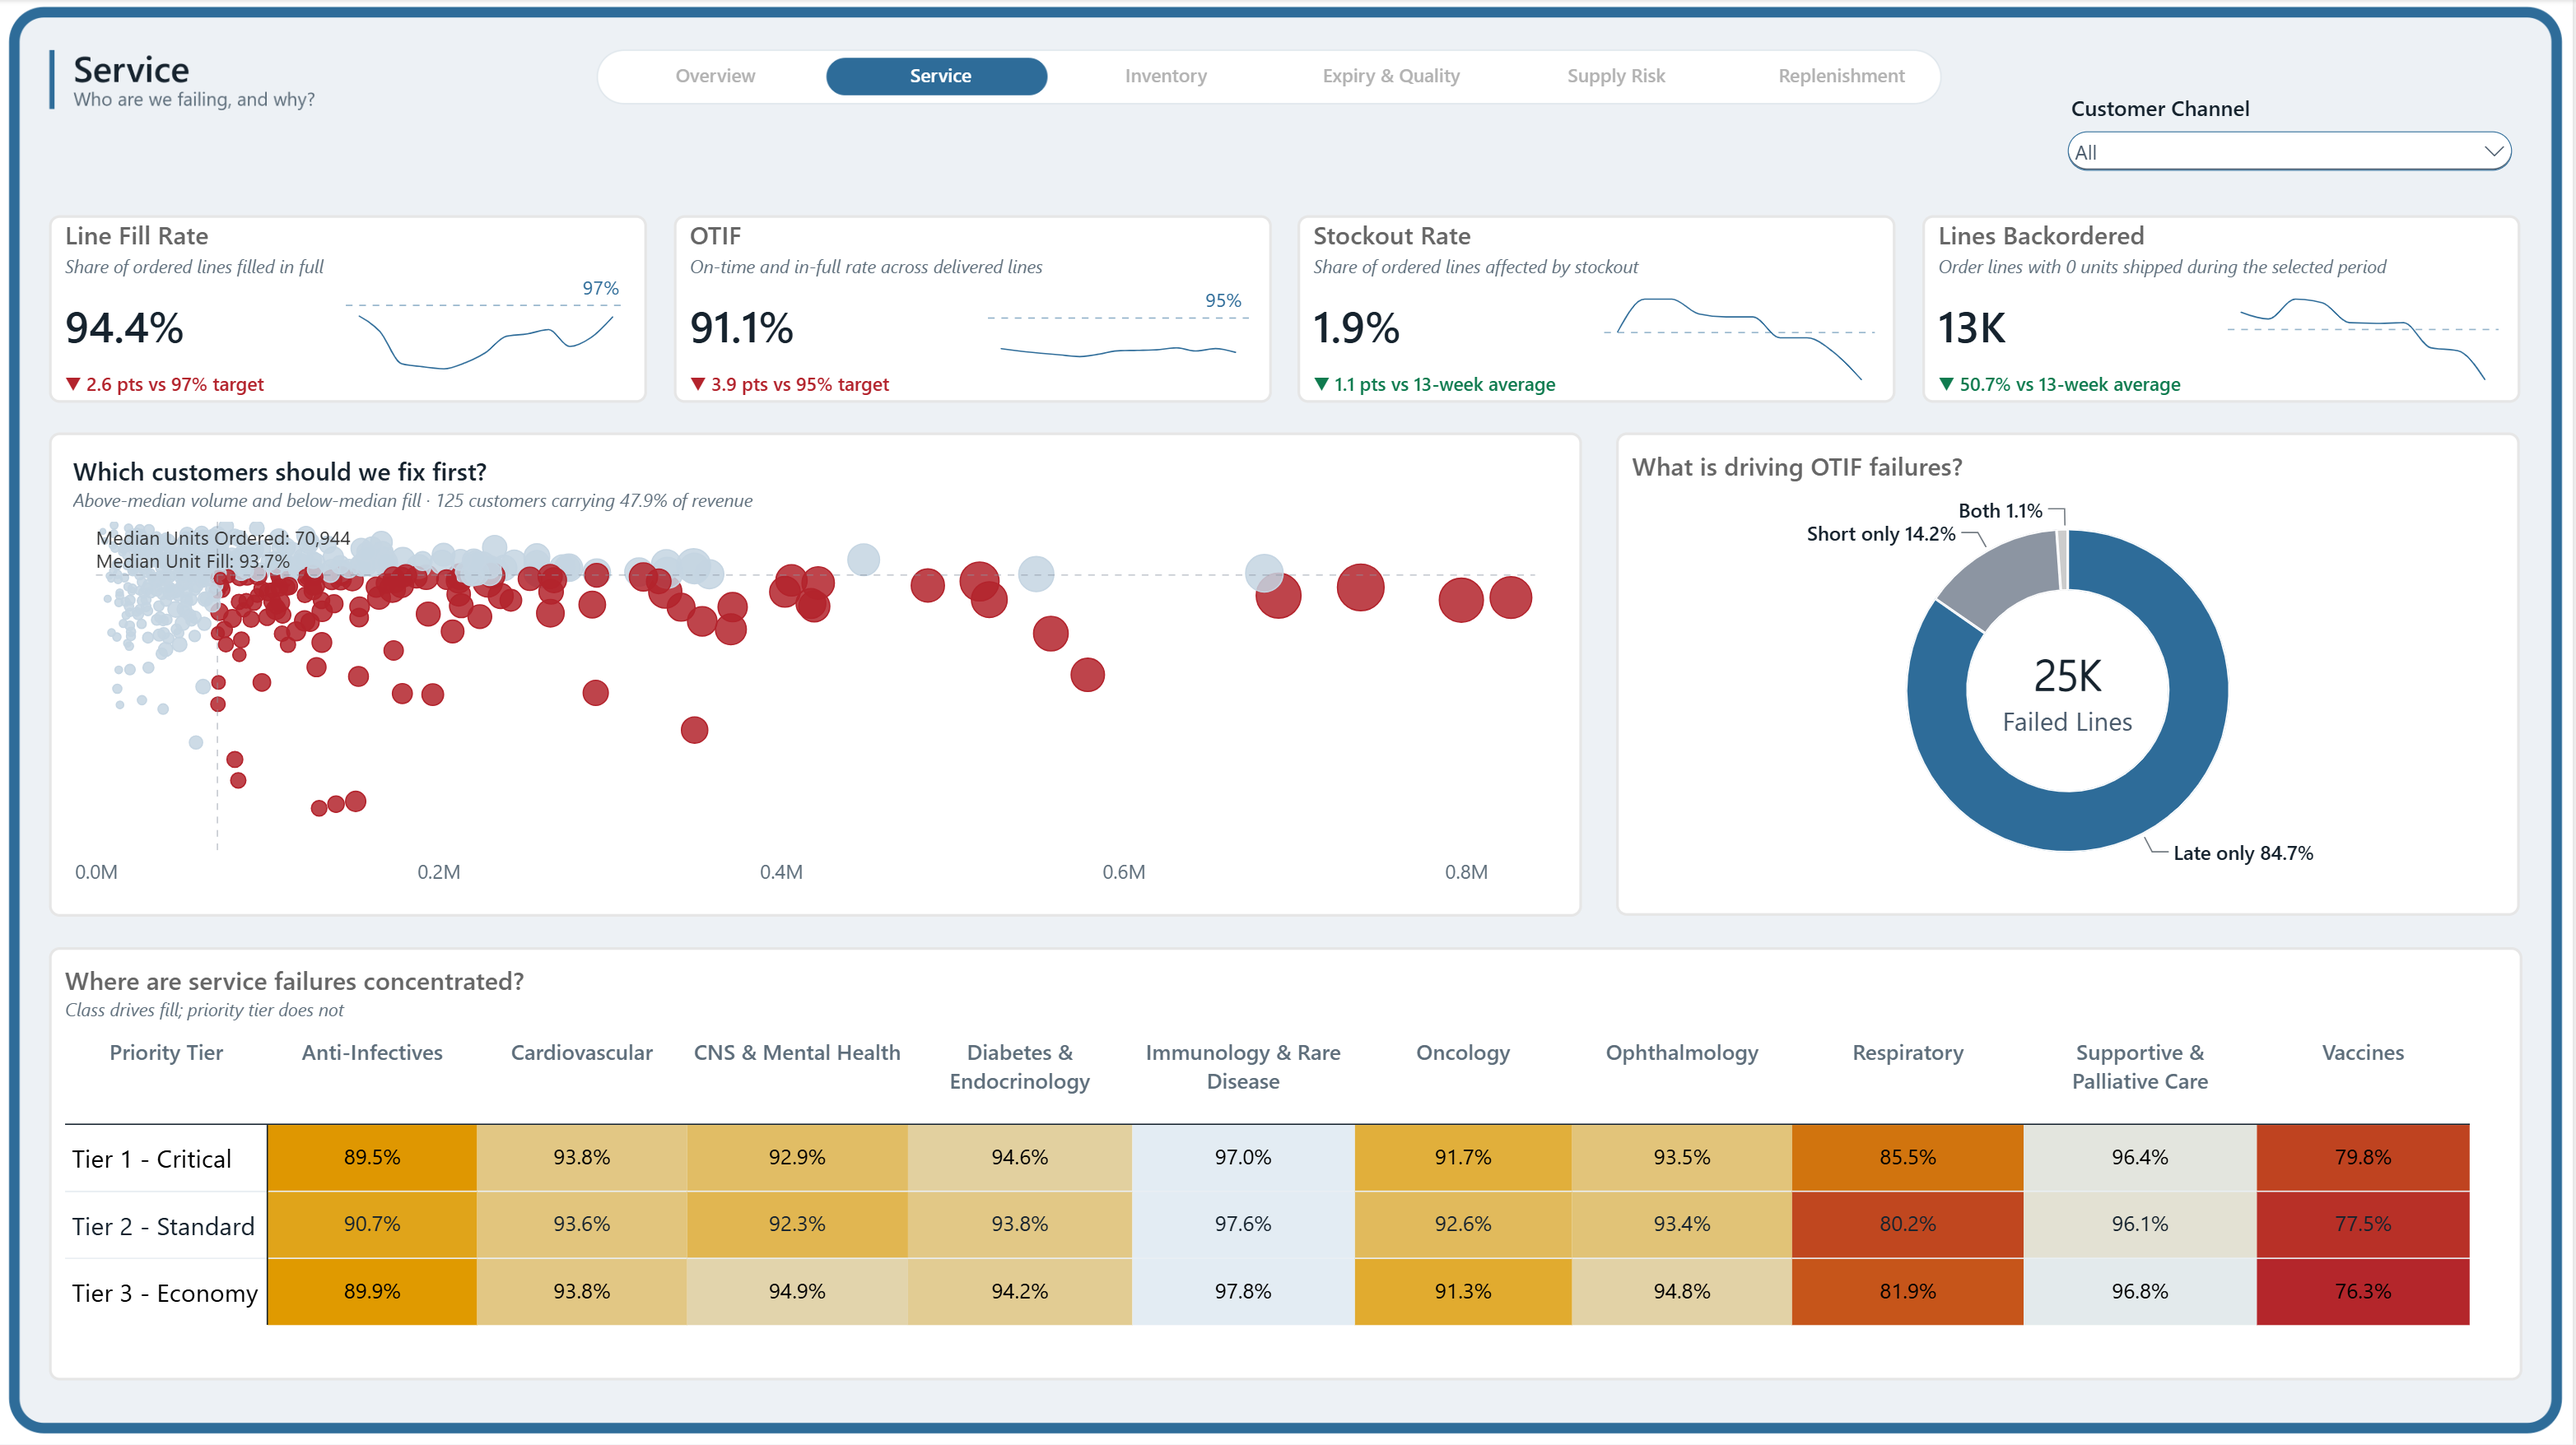
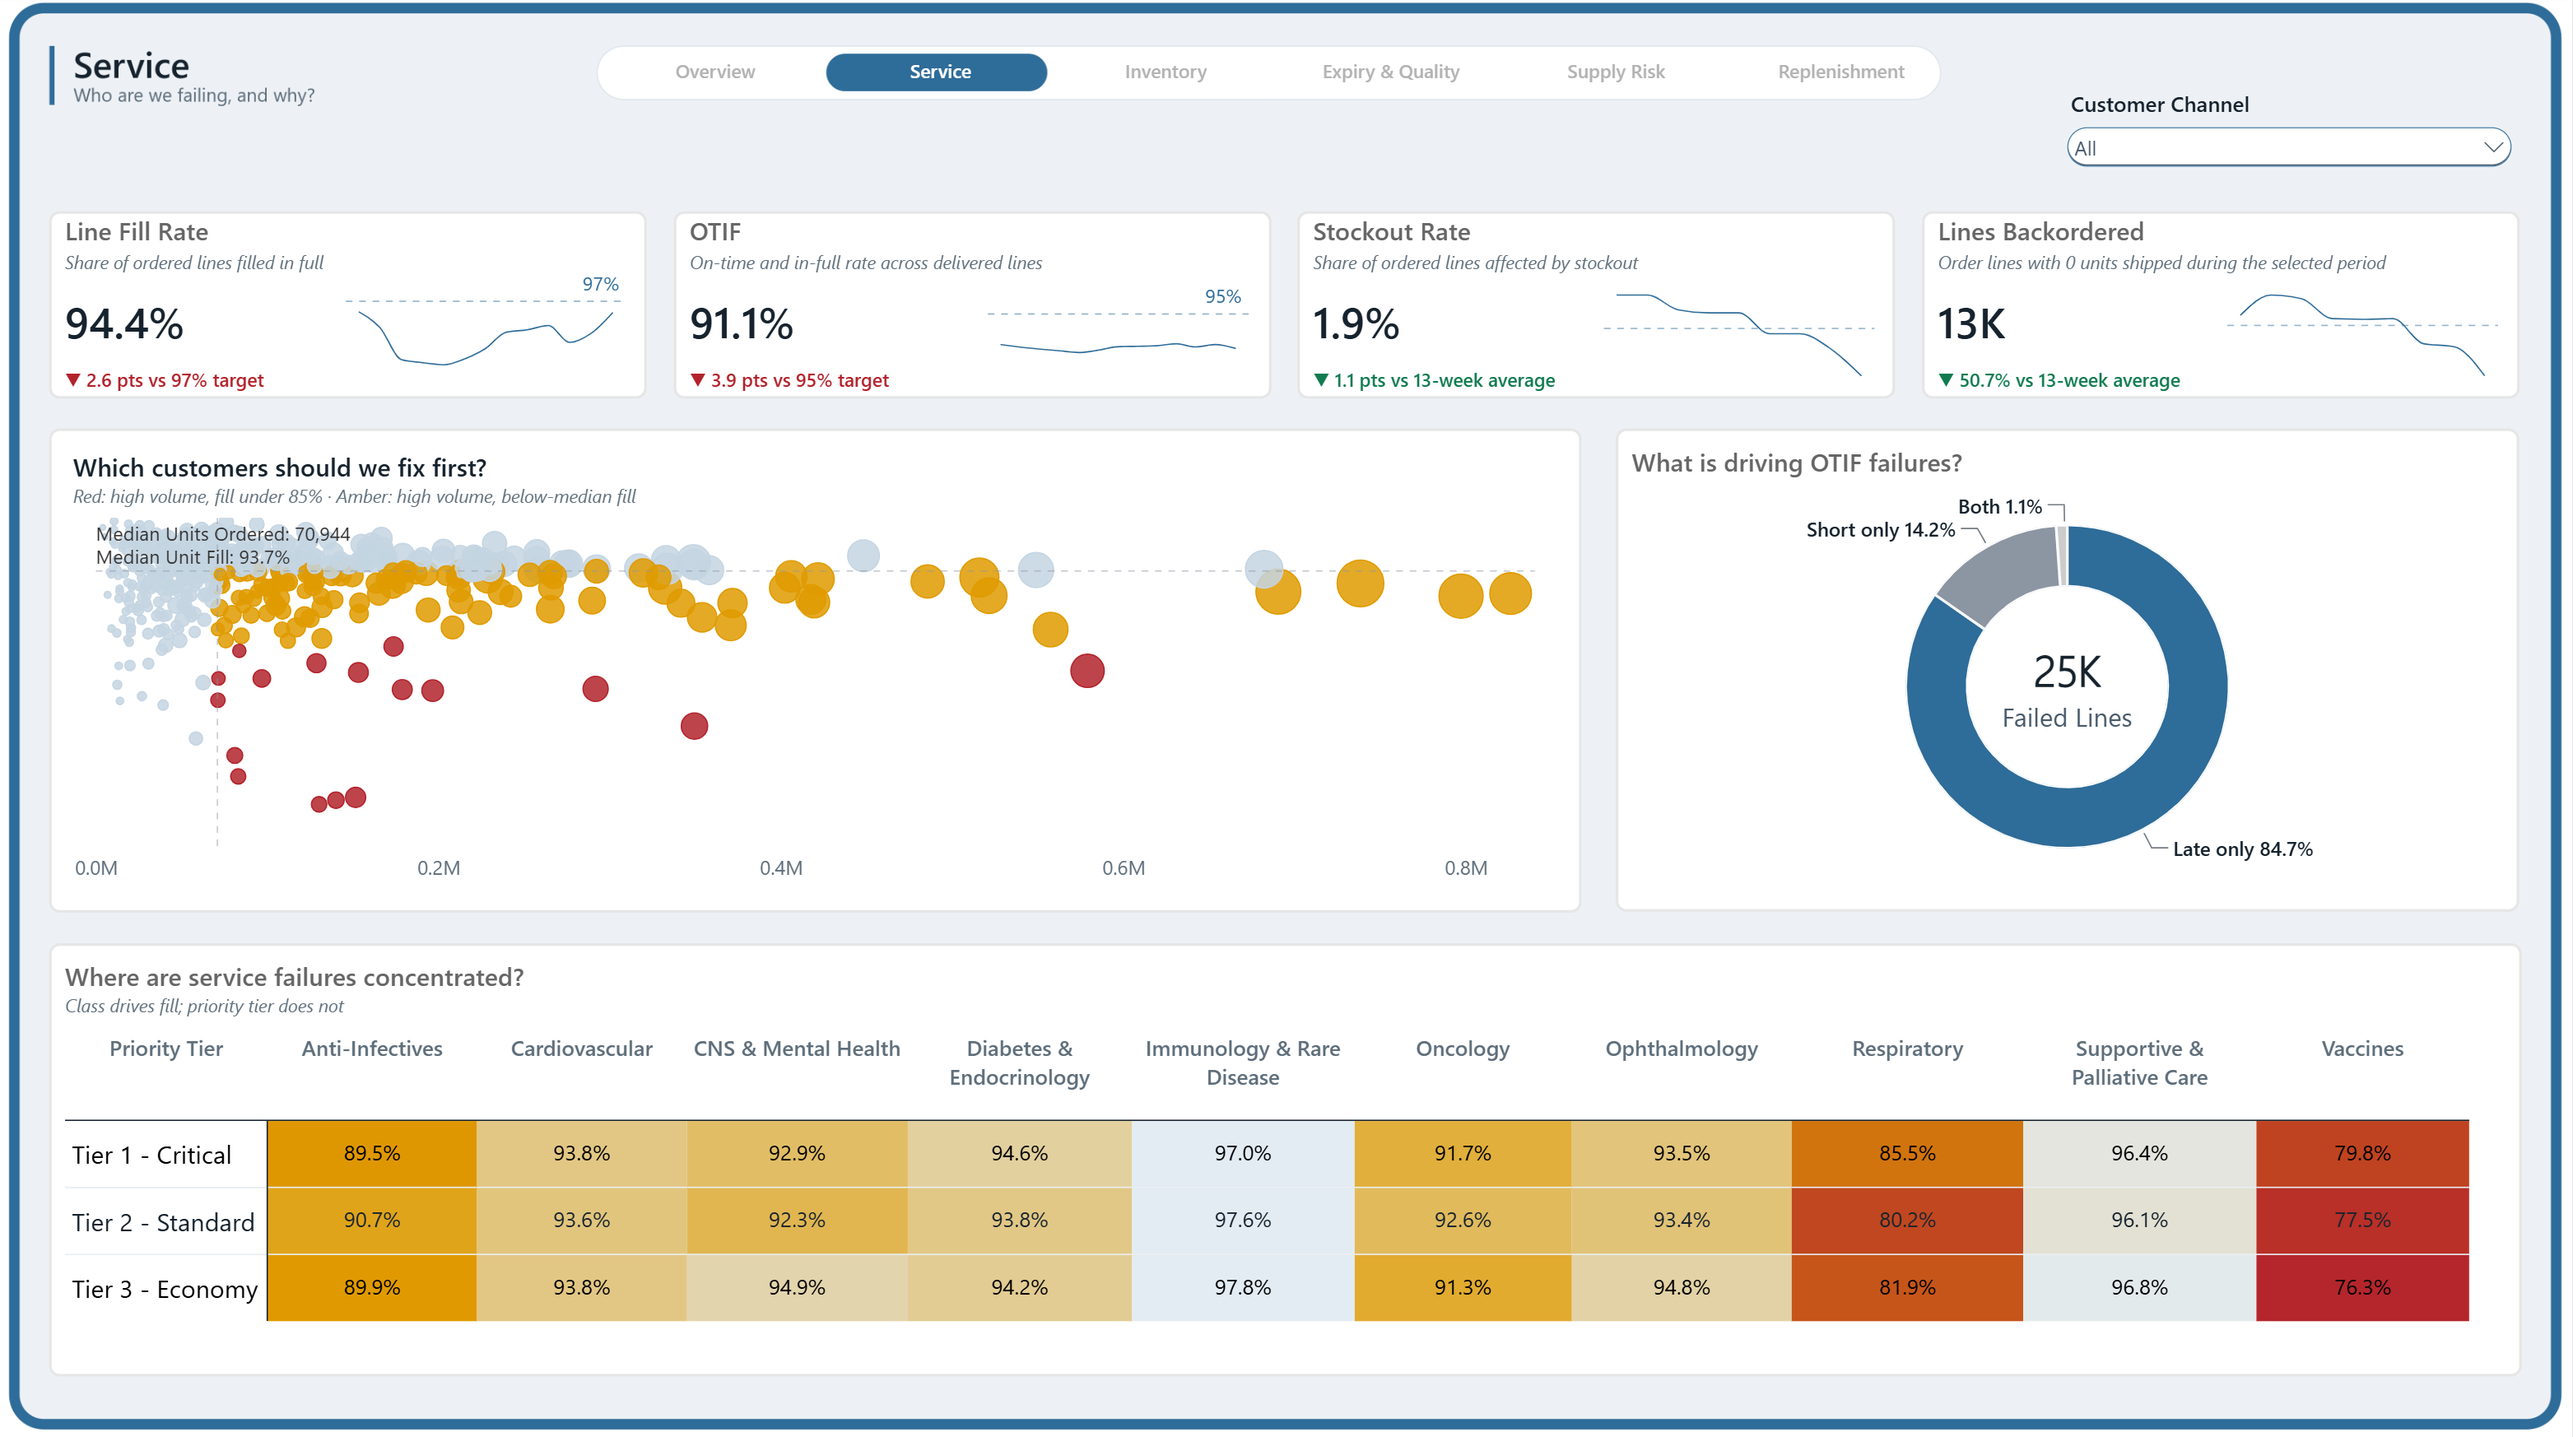
Refresh dashboard screenshots and narrative

diff --git a/README.md b/README.md
@@ -125,15 +125,15 @@ For example, **Ozerinis in Mississauga had no available cover and had been below
 
 **The customer experience was assessed through completeness, timing, and availability.**
 
-The cards show **94.4% of order lines filled completely** and **91.1% of delivered lines arriving on time and complete**. Around **13K order lines shipped no units**. Separately, the inventory indicator shows **1.9% of stocked product–location combinations had no available stock**.
+The cards show **94.4% of order lines filled completely** and **91.1% of delivered lines arriving on time and complete**. Around **13K order lines shipped no units**, while **1.9% of ordered lines were affected by a stockout**.
 
 This distinction matters: an order can be complete but late, partially supplied, or not supplied at all.
 
 **The customer chart: where should service recovery start?**
 
-Customer demand was compared with the share of requested units supplied. The highlighted group contains **125 customers with above-median demand and below-median unit fill**, representing **47.9% of revenue**.
+Customer demand was compared with the share of requested units supplied. Amber identifies high-volume customers performing below the median fill rate, while red isolates high-volume customers with fill below 85%.
 
-This provides a focused starting point for account reviews. It identifies substantial commercial exposure, while product and customer criticality still need to guide the final priorities.
+This creates a focused starting point for account reviews by separating broad underperformance from the most severe service gaps. Product and customer criticality should still guide the final priorities.
 
 **The delivery-failure chart: is the main issue timing or quantity?**
 
@@ -159,7 +159,7 @@ The recurring pattern suggests a product-group investigation is needed, rather t
 
 **Stock holdings were examined to determine whether they supported demand or tied up cash.**
 
-The business held **$101.5M in inventory**, including **$11.36M above its planned upper stocking levels**. Inventory represented approximately **42.6 days of activity against a 36-day target**, while **4.2% of product–location combinations were below their safety buffer**.
+The business held **$101.5M in inventory**, including **$11.36M above its planned upper stocking levels**. Inventory represented **42.6 days of activity against a 36-day target**, while **4.2% of product–location combinations were below their safety buffer**.
 
 Excess stock and insufficient availability were present at the same time.
 
@@ -303,7 +303,7 @@ No shortage is recorded for this product in the displayed view. That does not re
 
 **The temperature-event panel: what happened to this product?**
 
-The July 13 event records approximately **$333K in exposure with a destroyed outcome**, associated with ambient conditions at the dock. This connects the product-level review back to the wider quality finding.
+Two visible July events record approximately **$495K of destroyed product**: about **$333K** associated with ambient conditions at the dock and **$162K** associated with a carrier delay. This connects the product-level review back to the wider quality finding.
 
 **Decision supported:** Review this product's replenishment timing and handling controls together, rather than treating them as unrelated issues.
 
@@ -349,4 +349,4 @@ This project demonstrates how a broad inventory problem can be translated into a
 
 **Mai Nguyen** · [LinkedIn](https://www.linkedin.com/in/thi-ngoc-mai-nguyen/) · [GitHub](https://github.com/thingocmainguyen)
 
-*Reading note: stock figures refer to the August 10, 2026 snapshot; activity measures cover the selected reporting period, and some quality cards show the latest 13 weeks. Screenshots are captured views. In the Service screenshot, “Stockout Rate” describes product–location availability rather than order lines; “Below Safety Stock” on the Inventory page compares stock with its safety buffer, not its replenishment threshold.*
+*Reading note: stock figures refer to the August 10, 2026 snapshot; activity measures cover the selected reporting period, and some quality cards show the latest 13 weeks. Screenshots are captured views. “Below Safety Stock” on the Inventory page compares stock with its safety buffer, not its replenishment threshold.*
